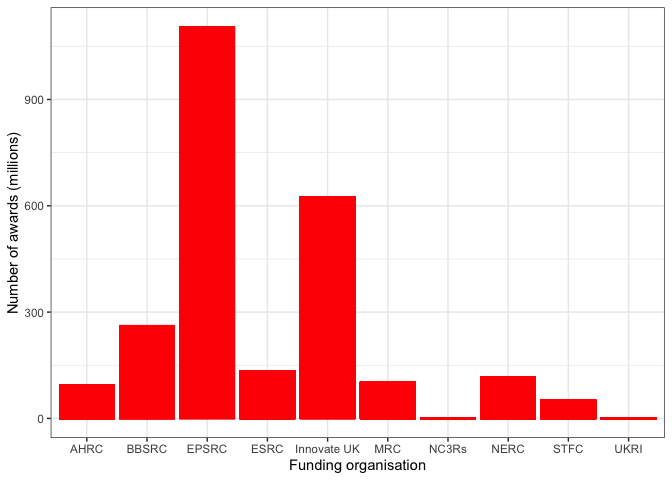
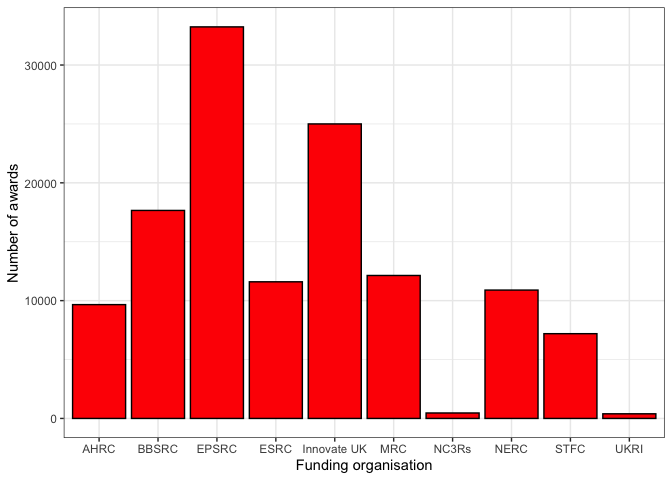
Corrections and improvements to graphs.

diff --git a/Src/ESRC.md b/Src/ESRC.md
@@ -9,7 +9,6 @@ Economic and Social Research Council (ESRC) Data
     -   <a href="#expenditure-for-all-ukri-projects"
         id="toc-expenditure-for-all-ukri-projects">Expenditure for all UKRI
         projects</a>
-        -   <a href="#summary" id="toc-summary">Summary</a>
     -   <a href="#expenditure-for-active-ukri-projects-only"
         id="toc-expenditure-for-active-ukri-projects-only">Expenditure for
         active UKRI projects only</a>
@@ -168,6 +167,22 @@ The distribution of awards by research council.
 
 <img src="ESRC_files/figure-gfm/AwardDistrPerFundCouncil-1.png" title="Distribution of award size by research council." alt="Distribution of award size by research council."  />
 
+The overall stats for the award amount agree with the diagram above (not
+normally distributed).
+
+| Funding org |          Total |    Mean | Standard Dev |    Median | Mode      |
+|:------------|---------------:|--------:|-------------:|----------:|:----------|
+| AHRC        |  1,261,472,322 | 172,215 |      417,128 |    56,268 | 14,013    |
+| BBSRC       |  4,732,082,523 | 386,419 |      783,527 |   300,620 | 95,042    |
+| EPSRC       | 15,261,747,133 | 757,858 |    2,556,970 |   302,998 | 90,000    |
+| ESRC        |  3,501,153,022 | 442,121 |    1,702,051 |   130,045 | 100,000   |
+| Innovate UK | 11,939,854,589 | 479,224 |    5,357,990 |    95,816 | 5,000     |
+| MRC         |  6,267,924,420 | 759,564 |    1,099,714 |   432,424 | 290,658   |
+| NC3Rs       |     73,384,156 | 182,548 |      130,336 |   101,837 | 90,000    |
+| NERC        |  3,350,291,272 | 362,703 |    1,905,917 |   178,348 | 88,292    |
+| STFC        |  2,364,288,736 | 461,865 |      964,691 |   150,664 | 10,000    |
+| UKRI        |    391,911,795 | 997,231 |      308,931 | 1,069,796 | 1,196,146 |
+
 The graph with the values for each research council normalised:
 
 <img src="ESRC_files/figure-gfm/AwardDistrPerFundCouncilScaled-1.png" title="Distribution of award size by research council with the graphs scaled." alt="Distribution of award size by research council with the graphs scaled."  />
@@ -184,19 +199,6 @@ The same information by percent expenditure for each year.
 Although there seems to be historical data for the MRC, ESRC and STFC it
 seems to make more sense to start looking at the data from 2008 (this
 will be applied later).
-
-### Summary
-
--   Over the time covered by the data, EPSRC has been allocated the most
-    money but they also give the most awards so on average they do not
-    give the highest award.
--   The MRC have been given the third highest amount but, other than
-    UKRI, they give the second highest average award but they have the
-    longest set of records.
--   Of interest to this particular study the ESRC comes in fifth in the
-    total amount awarded and they give the fourth highest number of
-    awards so their average over the research councils comes third.
--   At a later point only data from 2008 and onwards will be considered.
 
 ## Expenditure for active UKRI projects only
 
@@ -248,6 +250,22 @@ average award:
 The distribution of awards by research council for active projects.
 
 <img src="ESRC_files/figure-gfm/ActiveAwardDistrPerFundCouncil-1.png" title="Distribution of award size by research council for active projects." alt="Distribution of award size by research council for active projects."  />
+
+with the stats for the above again showing in agreement with the graphs
+above that the distribution is not normal.
+
+| Funding org |         Total |      Mean | Standard Dev |    Median | Mode      |
+|:------------|--------------:|----------:|-------------:|----------:|:----------|
+| AHRC        |   443,171,889 |   365,051 |      843,084 |   176,362 | 5,040     |
+| BBSRC       | 1,366,783,223 |   624,672 |    1,571,541 |   406,369 | 100,279   |
+| EPSRC       | 6,303,746,217 | 1,385,439 |    3,568,116 |   519,026 | 300,000   |
+| ESRC        | 1,766,391,182 | 1,099,186 |    3,320,943 |   253,981 | 100,000   |
+| Innovate UK | 4,790,776,011 | 1,392,263 |   12,517,574 |   209,554 | 50,000    |
+| MRC         | 1,745,442,053 |   969,690 |    1,187,336 |   588,872 | 292,355   |
+| NC3Rs       |    20,698,414 |   155,627 |      121,866 |    94,402 | 90,000    |
+| NERC        | 1,443,216,024 |   731,112 |    3,878,590 |   341,740 | 89,114    |
+| STFC        |   740,988,391 |   572,192 |      973,439 |   242,684 | 78,040    |
+| UKRI        |   382,101,075 | 1,000,265 |      310,717 | 1,074,176 | 1,196,146 |
 
 With the densities normalised for each research council:
 
